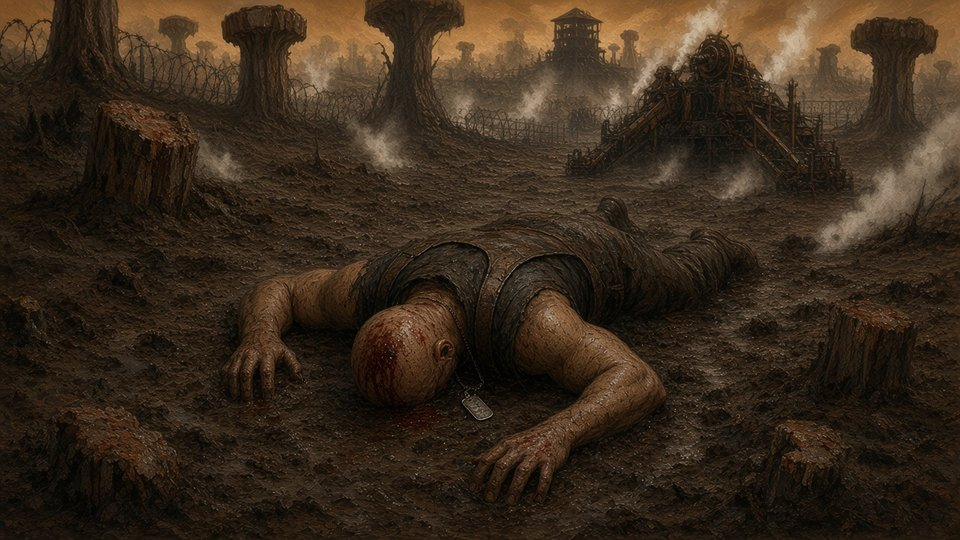
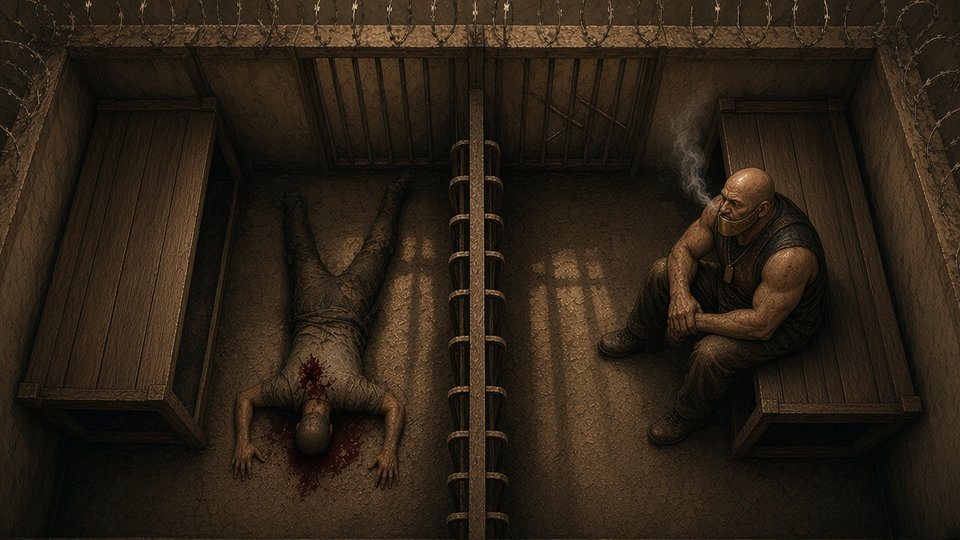
v191: cell-opening art (top-down, Jaxson through bars); holding cells at camp:cages

diff --git a/src/game/art.ts b/src/game/art.ts
@@ -397,7 +397,7 @@ export const COVER_BAND: Record<CoverKey, [number, number]> = {
   // The prisoner's face and both hands on the bar, the amber gap, and the wrench on the floor all sit between these two lines.
   holding_cells: [0.1, 0.92],
   // v191: razor-wire, vents, harvesters and the tower along the top; the prisoner face-down in the muck.
-  prisoner_opening: [0.05, 0.85],
+  prisoner_opening: [0.08, 0.95],
   rim_pilgrims_scar: [0.15, 0.9],
   // Court Guard: face, coat, and the curved blade.
   courtguard: [0.05, 0.85],
